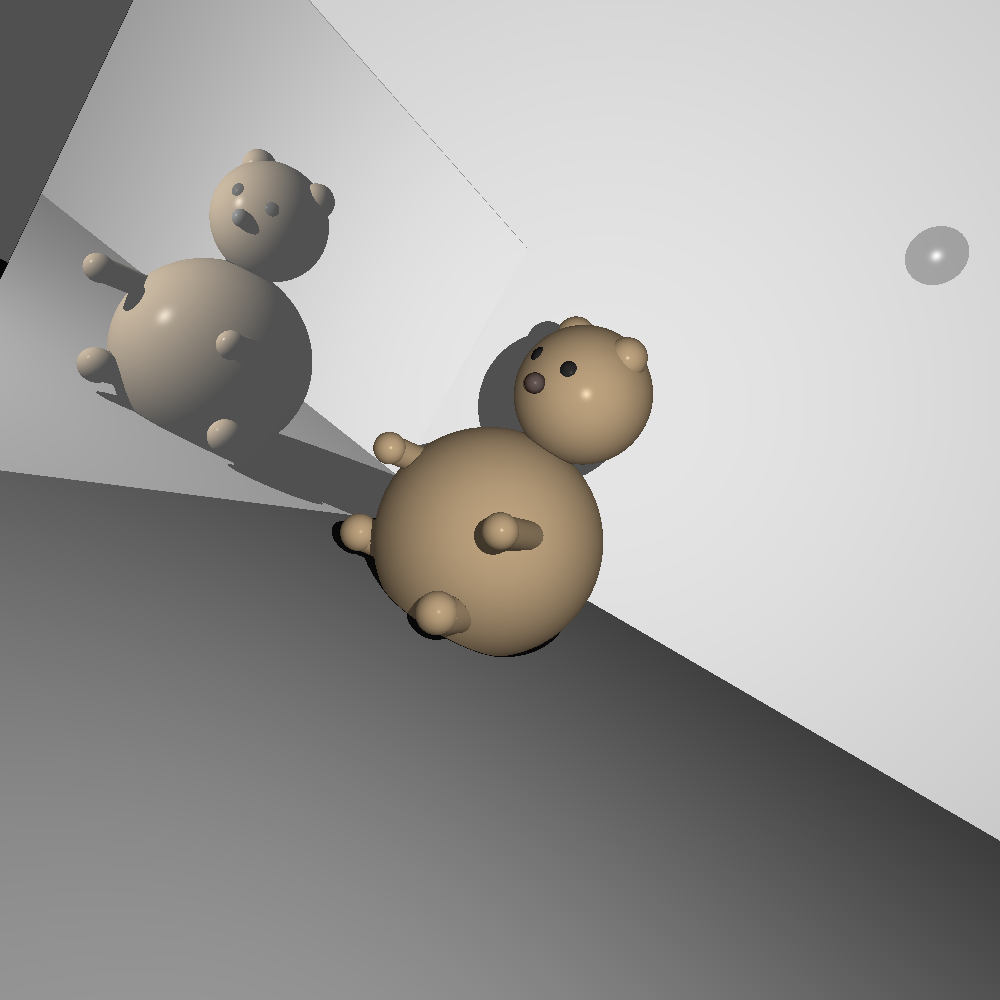
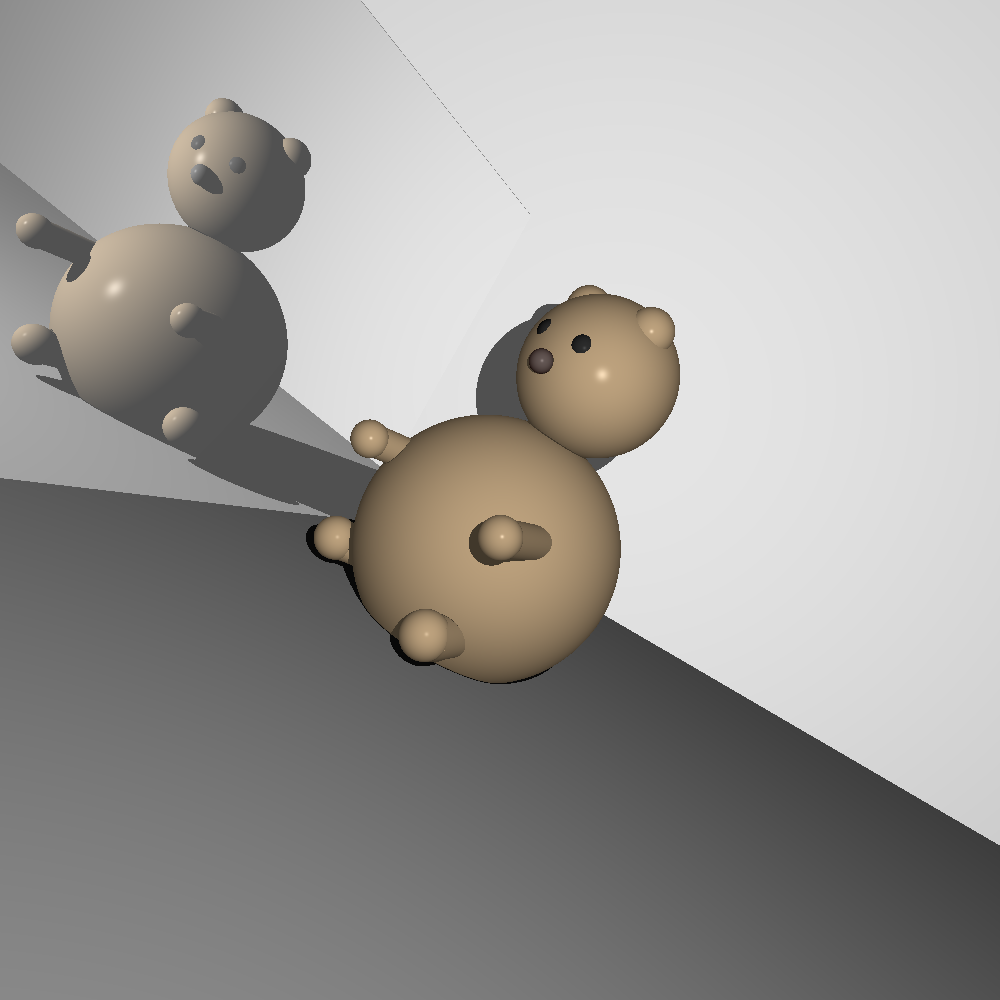
picture for moving camera bonus

diff --git a/unittests/renderer/moveCameraTest.java b/unittests/renderer/moveCameraTest.java
@@ -79,7 +79,7 @@ public class moveCameraTest {
         // Create a new camera using the constructor with a parameter
         Camera movedAndZoomedCamera = new Camera.Builder(initialCamera)
                 .moveAndLookAt(new Vector(1, 5, 3))
-                .zoom(8)
+                .zoom(20)
                 .roll(30)
                 .build();
 
